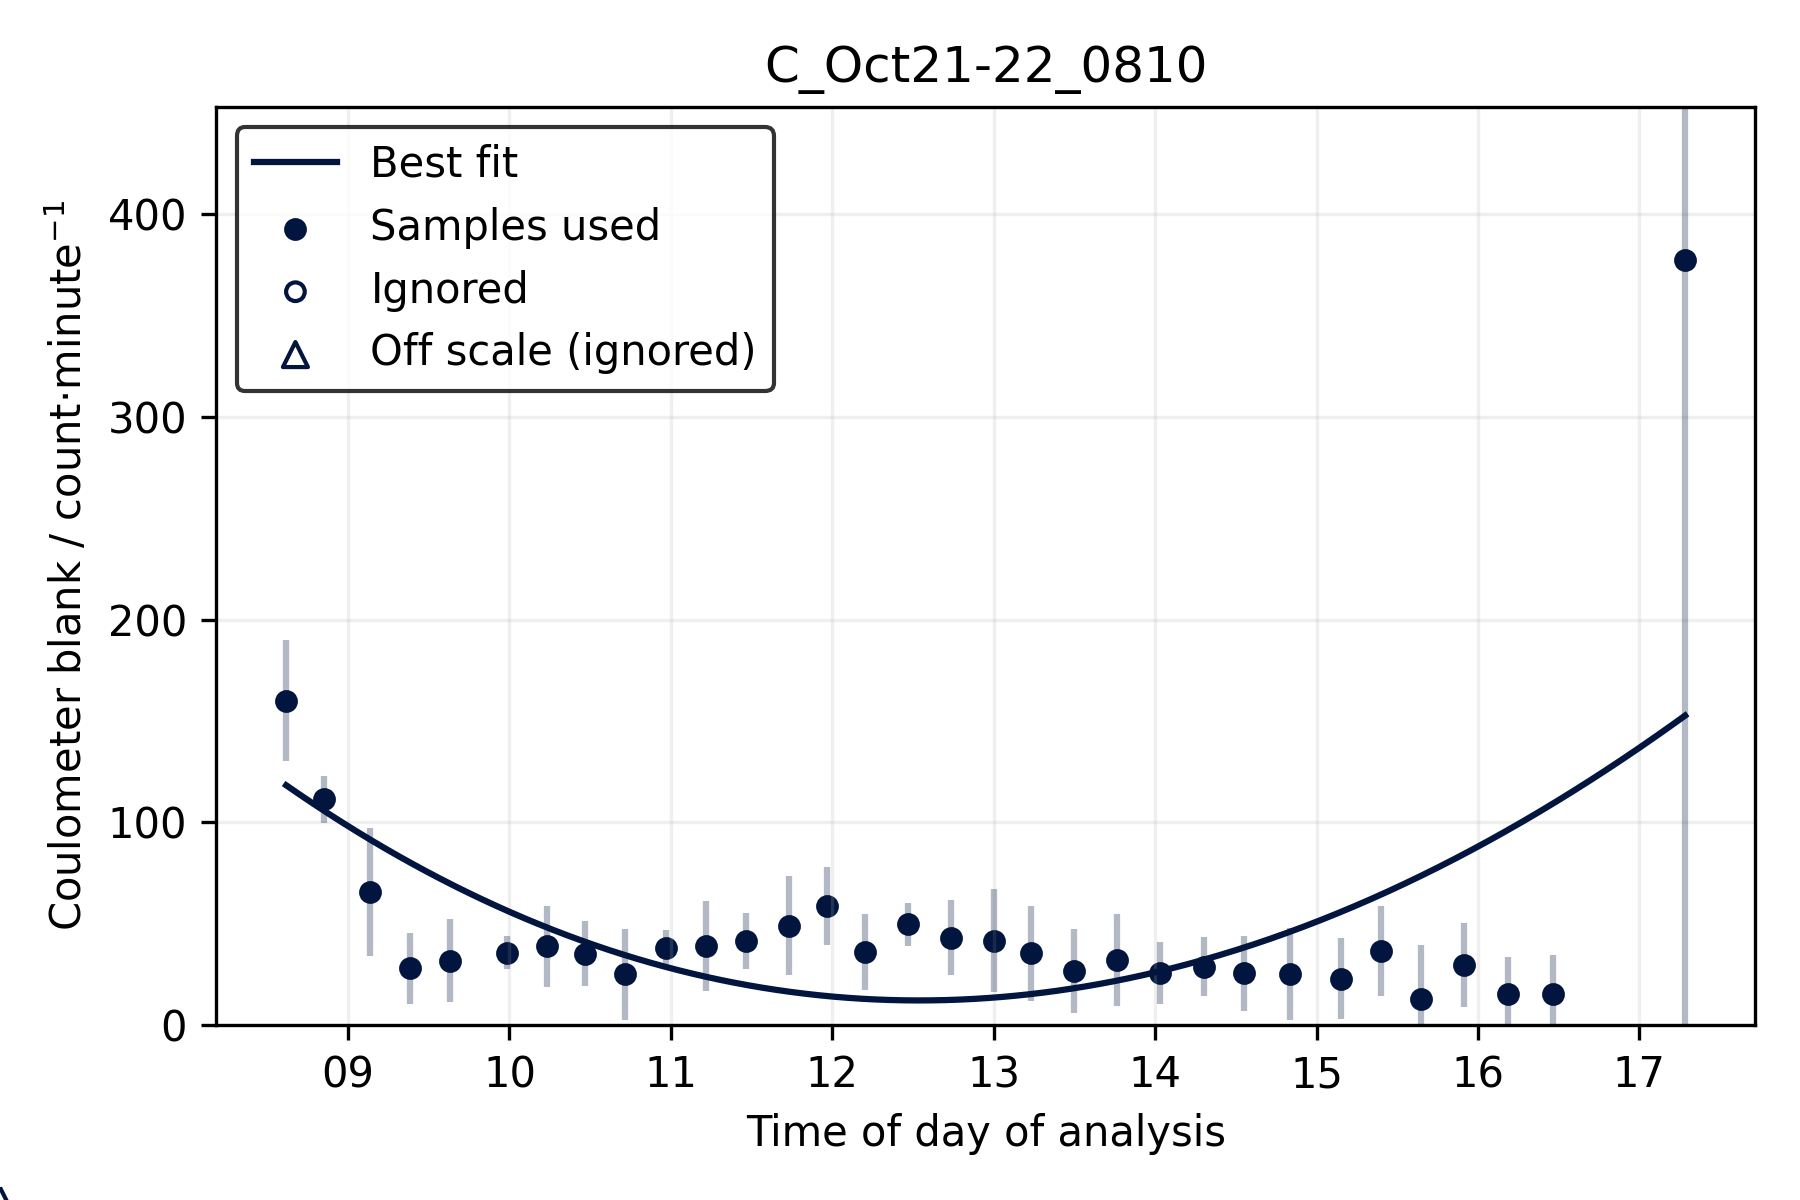
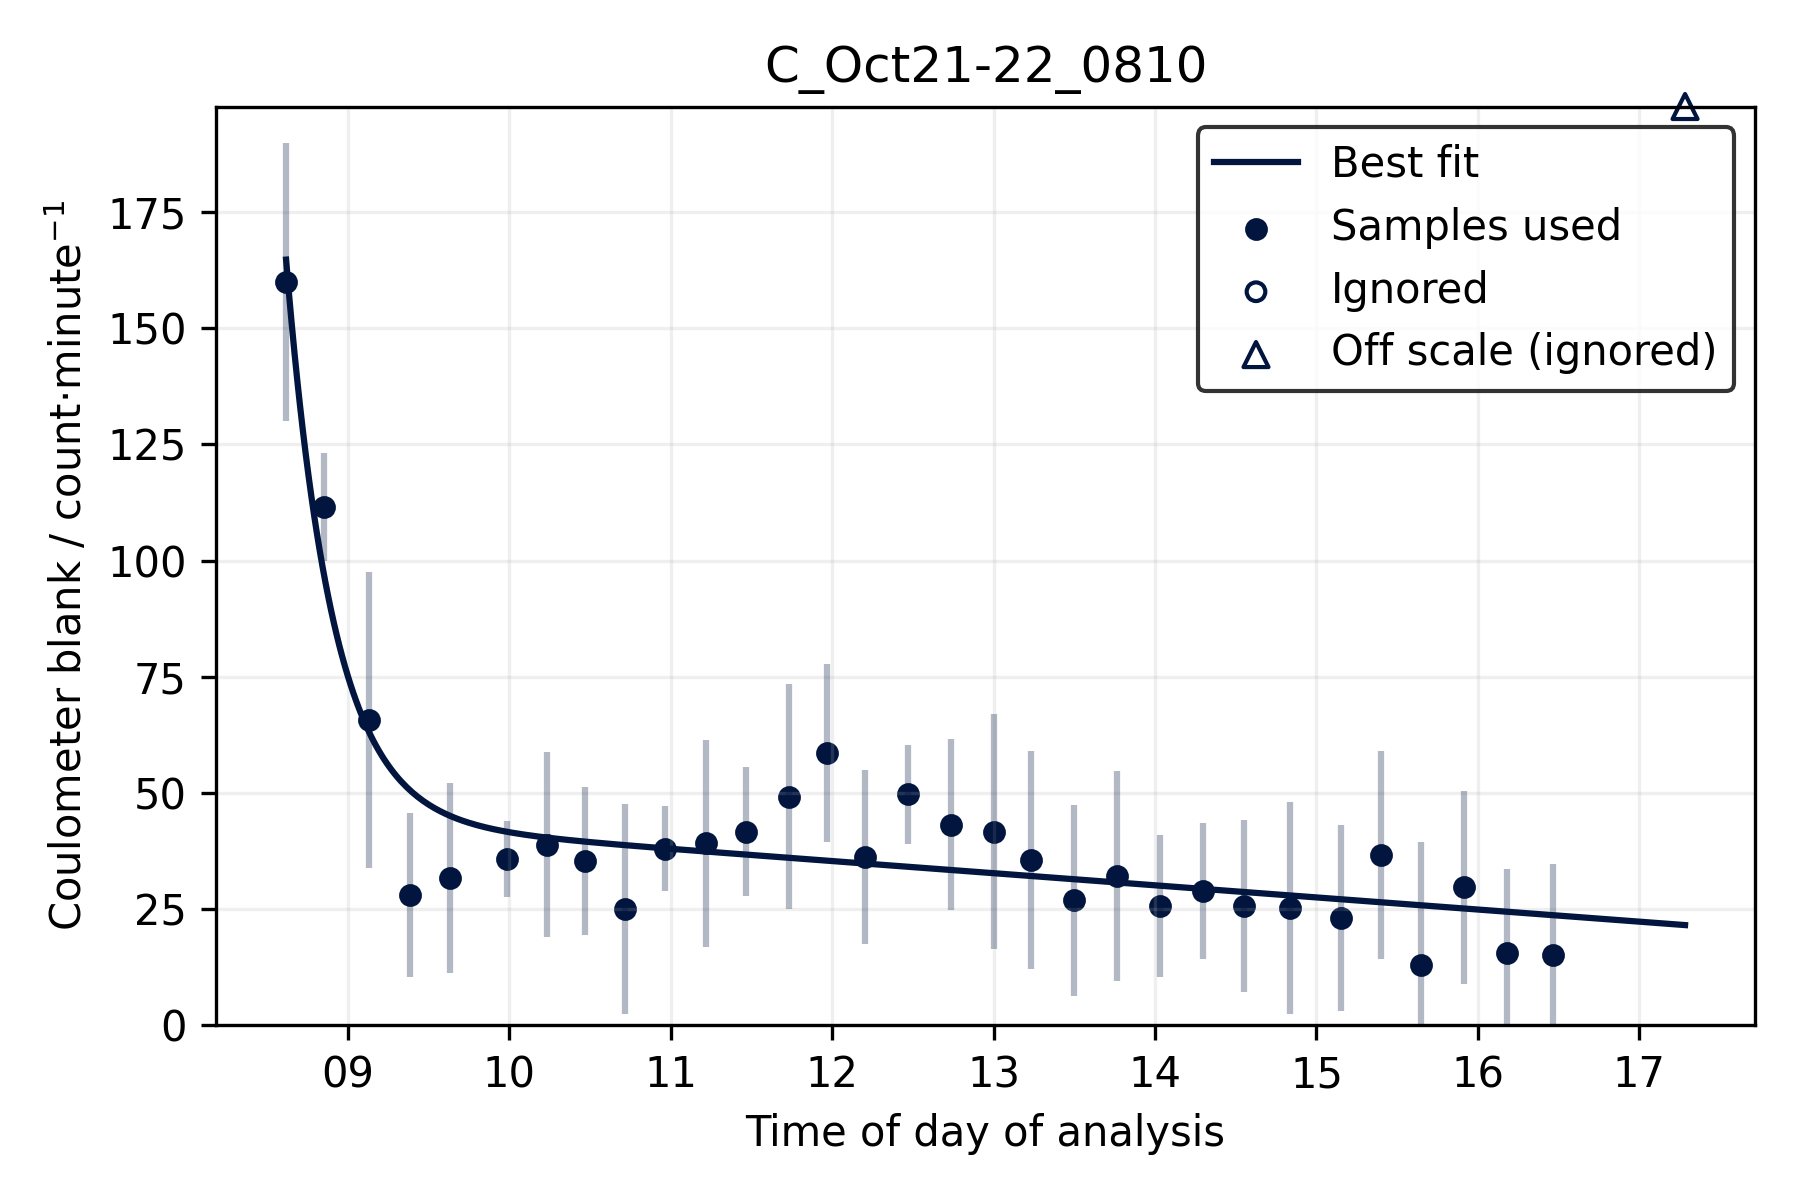
fixed datetime + ignored blanks

diff --git a/SO289-64PE503/process_SO289_64PE503.py b/SO289-64PE503/process_SO289_64PE503.py
@@ -20,7 +20,6 @@ dbs.loc[dbs["bottle"]=="SO289-41297", "analysis_datetime"] = "2022-10-21 11:58:0
 dbs.loc[dbs["bottle"]=="64PE503-28-5-8", "analysis_datetime"] = "2022-10-21 12:12:00"
 dbs.loc[dbs["bottle"]=="64PE503-68-6-5", "analysis_datetime"] = "2022-10-21 12:44:00"
 dbs.loc[dbs["bottle"]=="SO289-40698", "analysis_datetime"] = "2022-10-21 13:00:00"
-dbs.loc[dbs["bottle"]=="64PE503-12-7-2", "analysis_datetime"] = "2022-10-21 13:14:00"
 dbs.loc[dbs["bottle"]=="64PE503-46-4-8", "analysis_datetime"] = "2022-10-21 13:30:00"
 dbs.loc[dbs["bottle"]=="64PE503-56-4-2", "analysis_datetime"] = "2022-10-21 13:46:00"
 dbs.loc[dbs["bottle"]=="SO289-40611", "analysis_datetime"] = "2022-10-21 14:18:00"
@@ -32,6 +31,12 @@ dbs.loc[dbs["bottle"]=="64PE503-47-4-11", "analysis_datetime"] = "2022-10-21 15:
 dbs.loc[dbs["bottle"]=="64PE503-26-5-8", "analysis_datetime"] = "2022-10-21 15:55:00"
 dbs.loc[dbs["bottle"]=="CRM-189-0526-01", "analysis_datetime"] = "2022-10-21 16:28:00"
 dbs.loc[dbs["bottle"]=="CRM-189-0526-02", "analysis_datetime"] = "2022-10-21 17:17:00"
+
+# Fix datetime issue in .dbs for sample "64PE503-12-7-2" // because there's a duplicate
+L = (dbs["dic_cell_id"] == "C_Oct21-22_0810") & (dbs["bottle"]=="64PE503-12-7-2")
+dbs.loc[L, "analysis_datetime"] = "2022-10-21 13:14:00"
+
+
 
 # Fix datetime issue in .dbs nuts
 L = (dbs["bottle"] == "NUTSLAB03") & (dbs["analysis_datetime"].isnull())
@@ -120,6 +125,8 @@ calk.plot.alkalinity_offset(dbs, figure_fname="figs/alkalinity_offset.png", show
 # === DIC
 # Add optional column "blank_good
 dbs['blank_good'] = True
+dbs.loc[dbs["bottle"]=="CRM-189-0526-02", "blank_good"] = False
+dbs.loc[(dbs["bottle"]=="JUNK01") & (dbs["dic_cell_id"]=="C_Oct24-22_0810"), "blank_good"] = False
 
 # Select which DIC CRMs to use/avoid for calibration --- only fresh bottles
 dbs["k_dic_good"] = dbs.crm & dbs.bottle.str.endswith("-01")
